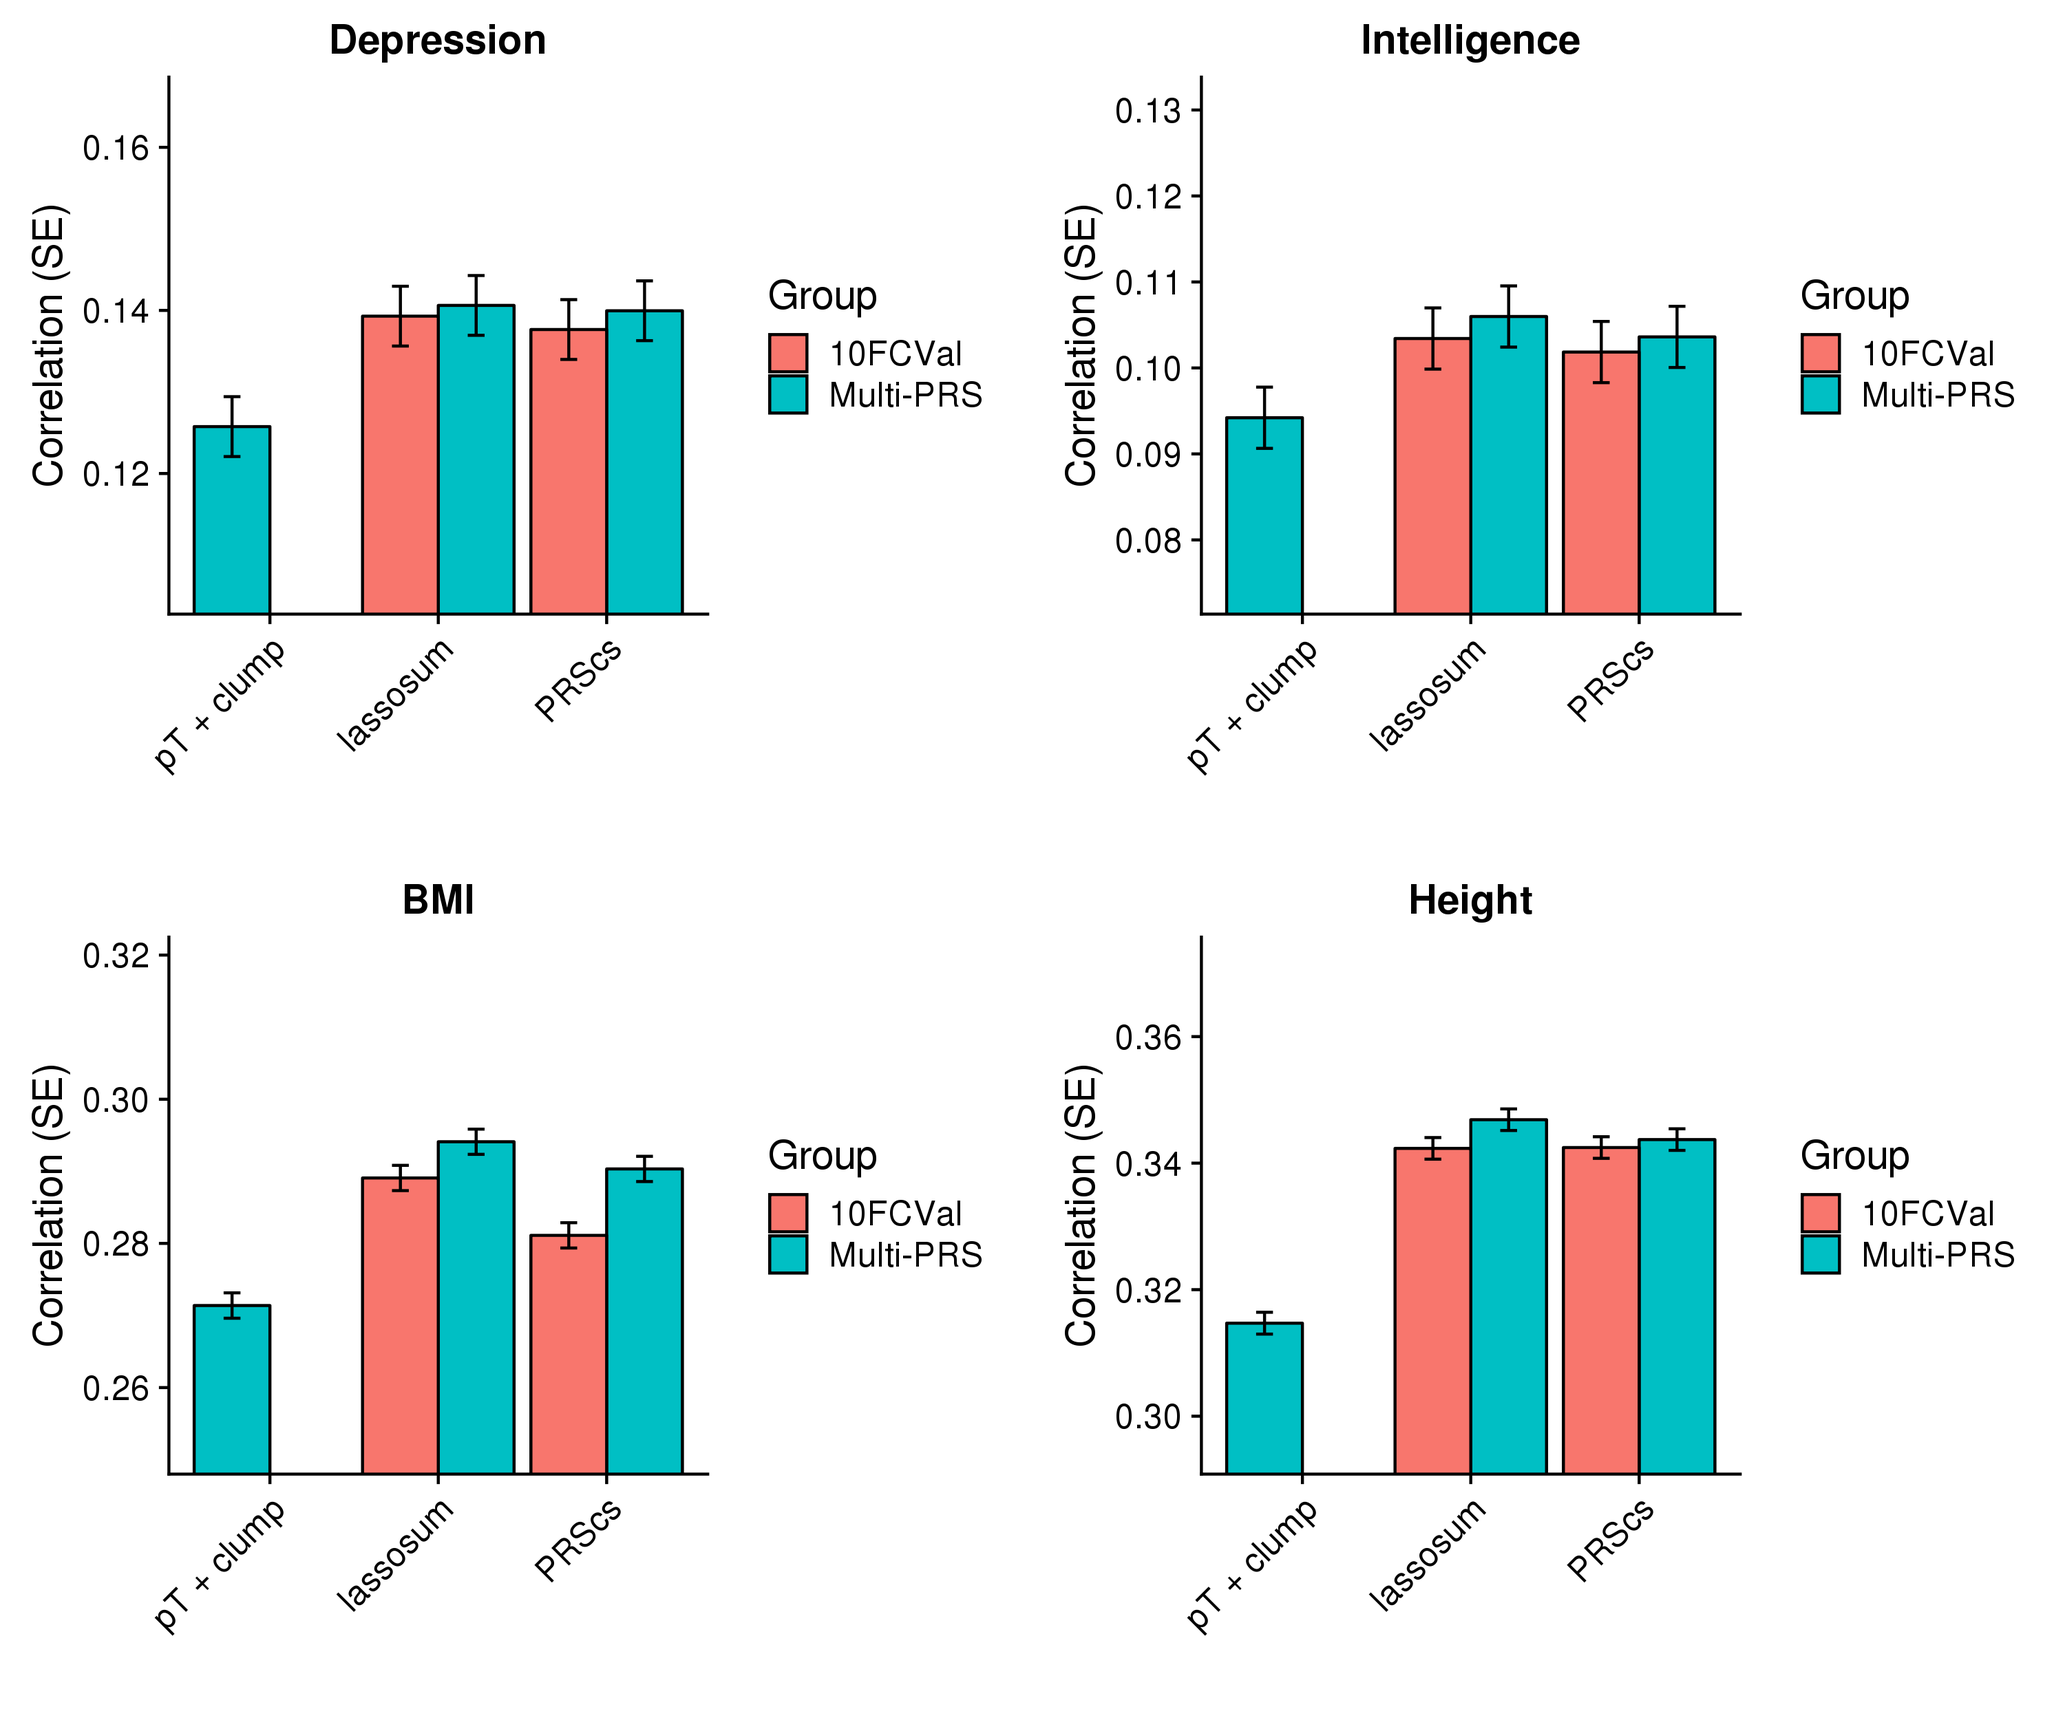
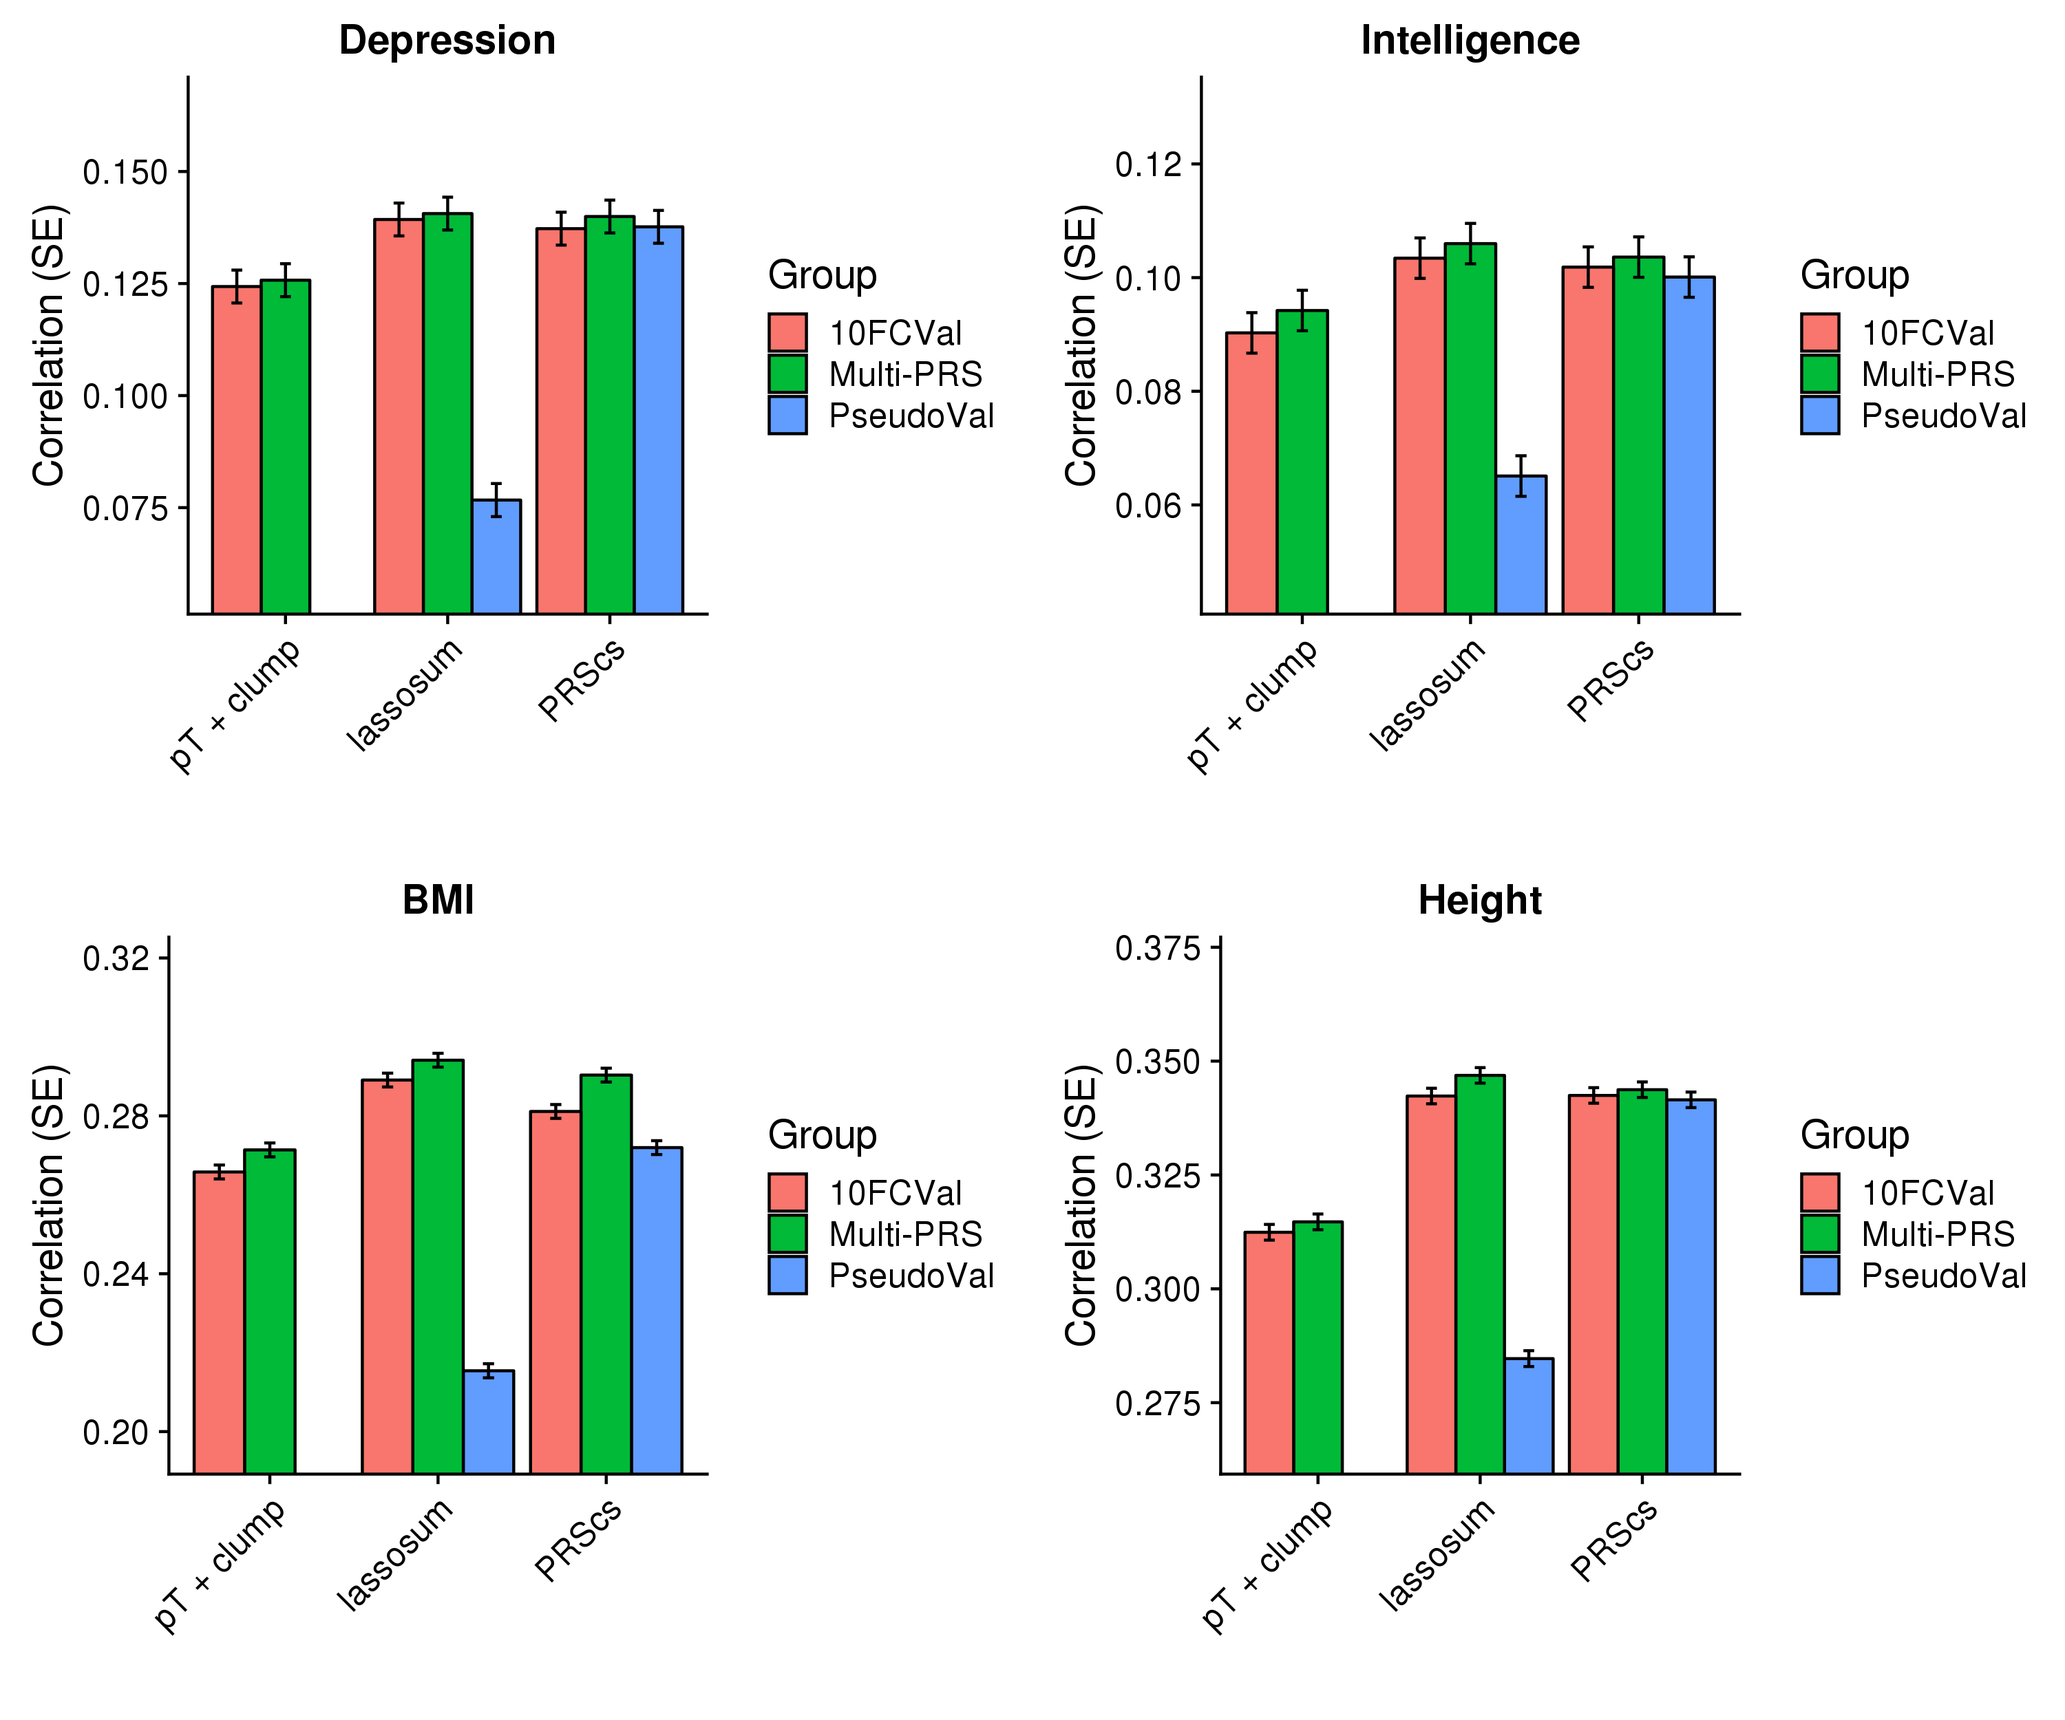
Update

diff --git a/Determine_optimal_polygenic_scoring_approach.html b/Determine_optimal_polygenic_scoring_approach.html
@@ -720,8 +720,8 @@ All_res&lt;-NULL
 for(i in 1:4){
   pT_clump&lt;-read.table(paste0(&#39;/users/k1806347/brc_scratch/Analyses/UKBB_outcomes_for_prediction/&#39;,pheno[i],&#39;/Association_withPRSs/UKBB.w_hm3.&#39;,gwas[i],&#39;.EUR-PRSs.pred_eval.txt&#39;), header=T, stringsAsFactors=F)
   pT_clump$Method&lt;-&#39;pT + clump&#39;
-  Param_tmp&lt;-sort(as.numeric(gsub(&#39;e.&#39;,&#39;e-&#39;,gsub(&#39;.profile_group&#39;,&#39;&#39;,gsub(paste0(gwas[i],&#39;.EUR.pT_&#39;),&#39;&#39;,pT_clump$Model)))))
-  pT_clump$Param&lt;-as.character(as.numeric(gsub(&#39;e.&#39;,&#39;e-&#39;,gsub(&#39;.profile_group&#39;,&#39;&#39;,gsub(paste0(gwas[i],&#39;.EUR.pT_&#39;),&#39;&#39;,pT_clump$Model)))))
+  Param_tmp&lt;-sort(as.numeric(gsub(&#39;e.&#39;,&#39;e-&#39;,gsub(&#39;_group&#39;,&#39;&#39;,gsub(paste0(gwas[i],&#39;_&#39;),&#39;&#39;,pT_clump$Model)))))
+  pT_clump$Param&lt;-as.character(as.numeric(gsub(&#39;e.&#39;,&#39;e-&#39;,gsub(&#39;_group&#39;,&#39;&#39;,gsub(paste0(gwas[i],&#39;_&#39;),&#39;&#39;,pT_clump$Model)))))
   pT_clump$Param[dim(pT_clump)[1]]&lt;-&#39;Multi-PRS&#39;
   pT_clump&lt;-pT_clump[match(c(Param_tmp,&#39;Multi-PRS&#39;), pT_clump$Param),]
   pT_clump$Model&lt;-NULL
@@ -732,13 +732,13 @@ for(i in 1:4){
   
   lassosum_res&lt;-read.table(paste0(&#39;/users/k1806347/brc_scratch/Analyses/UKBB_outcomes_for_prediction/&#39;,pheno[i],&#39;/Association_withPRSs/UKBB.w_hm3.&#39;,gwas[i],&#39;.EUR-PRSs_lassosum.pred_eval.txt&#39;), header=T, stringsAsFactors=F)
   lassosum_res$Method&lt;-&#39;lassosum&#39;
-  lassosum_res$Param&lt;-gsub(&#39;.lassosum.*&#39;,&#39;&#39;,gsub(&#39;.*param_&#39;,&#39;&#39;,lassosum_res$Model))
+  lassosum_res$Param&lt;-gsub(&#39;_group&#39;,&#39;&#39;,gsub(paste0(gwas[i],&#39;.&#39;),&#39;&#39;,lassosum_res$Model))
   lassosum_res$Param[dim(lassosum_res)[1]]&lt;-&#39;Multi-PRS&#39;
   lassosum_res$Model&lt;-NULL
   lassosum_val&lt;-read.table(paste0(&#39;/users/k1806347/brc_scratch/Data/1KG/Phase3/Score_files_for_poylygenic_lassosum/&#39;,gwas[i],&#39;/1KGPhase3.w_hm3.&#39;,gwas[i],&#39;.log&#39;), sep=&#39;&amp;&#39;)
   lassosum_val_s&lt;-as.numeric(gsub(&#39;s = &#39;,&#39;&#39;,lassosum_val$V1[grepl(&#39;s = &#39;,lassosum_val$V1)]))
   lassosum_val_lambda&lt;-as.numeric(gsub(&#39;lambda =&#39;,&#39;&#39;,lassosum_val$V1[grepl(&#39;lambda =&#39;,lassosum_val$V1)]))
-  lassosum_val_param&lt;-paste0(&#39;s&#39;,lassosum_val_s,&#39;_lambda&#39;,lassosum_val_lambda)
+  lassosum_val_param&lt;-paste0(&#39;s&#39;,lassosum_val_s,&#39;.lambda&#39;,lassosum_val_lambda)
   lassosum_val_param&lt;-substr(lassosum_val_param, 1, nchar(lassosum_val_param)-1) 
   lassosum_res$Group&lt;-NA
   lassosum_res$Group[which(lassosum_res$CrossVal_R == max(abs(lassosum_res$CrossVal_R[lassosum_res$Param != &#39;Multi-PRS&#39;])))[1]]&lt;-&#39;10FCVal&#39;
@@ -748,7 +748,7 @@ for(i in 1:4){
   
   PRScs_res&lt;-read.table(paste0(&#39;/users/k1806347/brc_scratch/Analyses/UKBB_outcomes_for_prediction/&#39;,pheno[i],&#39;/Association_withPRSs/UKBB.w_hm3.&#39;,gwas[i],&#39;.EUR-PRSs_PRScs.pred_eval.txt&#39;), header=T, stringsAsFactors=F)
   PRScs_res$Method&lt;-&#39;PRScs&#39;
-  PRScs_res$Param&lt;-gsub(&#39;.PRScs.*&#39;,&#39;&#39;,gsub(&#39;.*param_&#39;,&#39;&#39;,PRScs_res$Model))
+  PRScs_res$Param&lt;-gsub(&#39;_group&#39;,&#39;&#39;,gsub(paste0(gwas[i],&#39;.&#39;),&#39;&#39;,PRScs_res$Model))
   PRScs_res$Param[dim(PRScs_res)[1]]&lt;-&#39;Multi-PRS&#39;
   PRScs_res$Model&lt;-NULL
   PRScs_res$Group&lt;-NA
@@ -826,8 +826,8 @@ n</code></pre>
 
 <p><br/></p>
 <hr />
-<div id="htmlwidget-404243b9c308bcdd55d7" style="width:100%;height:auto;" class="datatables html-widget"></div>
-<script type="application/json" data-for="htmlwidget-404243b9c308bcdd55d7">{"x":{"filter":"top","filterHTML":"<tr>\n  <td data-type=\"factor\" style=\"vertical-align: top;\">\n    <div class=\"form-group has-feedback\" style=\"margin-bottom: auto;\">\n      <input type=\"search\" placeholder=\"All\" class=\"form-control\" style=\"width: 100%;\"/>\n      <span class=\"glyphicon glyphicon-remove-circle form-control-feedback\"><\/span>\n    <\/div>\n    <div style=\"width: 100%; display: none;\">\n      <select multiple=\"multiple\" style=\"width: 100%;\" data-options=\"[&quot;BMI&quot;,&quot;Depression&quot;,&quot;Height&quot;,&quot;Intelligence&quot;]\"><\/select>\n    <\/div>\n  <\/td>\n  <td data-type=\"factor\" style=\"vertical-align: top;\">\n    <div class=\"form-group has-feedback\" style=\"margin-bottom: auto;\">\n      <input type=\"search\" placeholder=\"All\" class=\"form-control\" style=\"width: 100%;\"/>\n      <span class=\"glyphicon glyphicon-remove-circle form-control-feedback\"><\/span>\n    <\/div>\n    <div style=\"width: 100%; display: none;\">\n      <select multiple=\"multiple\" style=\"width: 100%;\" data-options=\"[&quot;lassosum&quot;,&quot;PRScs&quot;,&quot;pT + clump&quot;]\"><\/select>\n    <\/div>\n  <\/td>\n  <td data-type=\"factor\" style=\"vertical-align: top;\">\n    <div class=\"form-group has-feedback\" style=\"margin-bottom: auto;\">\n      <input type=\"search\" placeholder=\"All\" class=\"form-control\" style=\"width: 100%;\"/>\n      <span class=\"glyphicon glyphicon-remove-circle form-control-feedback\"><\/span>\n    <\/div>\n    <div style=\"width: 100%; display: none;\">\n      <select multiple=\"multiple\" style=\"width: 100%;\" data-options=\"[&quot;10FCVal&quot;,&quot;Multi-PRS&quot;]\"><\/select>\n    <\/div>\n  <\/td>\n  <td data-type=\"character\" style=\"vertical-align: top;\">\n    <div class=\"form-group has-feedback\" style=\"margin-bottom: auto;\">\n      <input type=\"search\" placeholder=\"All\" class=\"form-control\" style=\"width: 100%;\"/>\n      <span class=\"glyphicon glyphicon-remove-circle form-control-feedback\"><\/span>\n    <\/div>\n  <\/td>\n  <td data-type=\"character\" style=\"vertical-align: top;\">\n    <div class=\"form-group has-feedback\" style=\"margin-bottom: auto;\">\n      <input type=\"search\" placeholder=\"All\" class=\"form-control\" style=\"width: 100%;\"/>\n      <span class=\"glyphicon glyphicon-remove-circle form-control-feedback\"><\/span>\n    <\/div>\n  <\/td>\n<\/tr>","caption":"<caption>Table 1: Correlation between PRS model predictions and observed values<\/caption>","data":[["Depression","Depression","Depression","Depression","Depression","Intelligence","Intelligence","Intelligence","Intelligence","Intelligence","BMI","BMI","BMI","BMI","BMI","Height","Height","Height","Height","Height"],["pT + clump","lassosum","lassosum","PRScs","PRScs","pT + clump","lassosum","lassosum","PRScs","PRScs","pT + clump","lassosum","lassosum","PRScs","PRScs","pT + clump","lassosum","lassosum","PRScs","PRScs"],["Multi-PRS","10FCVal","Multi-PRS","10FCVal","Multi-PRS","Multi-PRS","10FCVal","Multi-PRS","10FCVal","Multi-PRS","Multi-PRS","10FCVal","Multi-PRS","10FCVal","Multi-PRS","Multi-PRS","10FCVal","Multi-PRS","10FCVal","Multi-PRS"],["0.126 (0.004)","0.139 (0.004)","0.141 (0.004)","0.138 (0.004)","0.14 (0.004)","0.094 (0.004)","0.103 (0.004)","0.106 (0.004)","0.102 (0.004)","0.104 (0.004)","0.271 (0.002)","0.289 (0.002)","0.294 (0.002)","0.281 (0.002)","0.29 (0.002)","0.315 (0.002)","0.342 (0.002)","0.347 (0.002)","0.342 (0.002)","0.344 (0.002)"],["0.12 (0.007)","0.125 (0.007)","0.128 (0.007)","0.124 (0.007)","0.125 (0.007)","0.094 (0.007)","0.097 (0.007)","0.102 (0.007)","0.096 (0.007)","0.1 (0.007)","0.276 (0.004)","0.295 (0.003)","0.299 (0.003)","0.287 (0.004)","0.295 (0.003)","0.318 (0.003)","0.347 (0.003)","0.351 (0.003)","0.346 (0.003)","0.347 (0.003)"]],"container":"<table class=\"display\">\n  <thead>\n    <tr>\n      <th>Phenotype<\/th>\n      <th>Method<\/th>\n      <th>Group<\/th>\n      <th>CrossVal R (SE)<\/th>\n      <th>IndepVal R (SE)<\/th>\n    <\/tr>\n  <\/thead>\n<\/table>","options":{"pageLength":10,"scrollX":true,"order":[],"autoWidth":false,"orderClasses":false,"orderCellsTop":true}},"evals":[],"jsHooks":[]}</script>
+<div id="htmlwidget-fabe378d6e02727534cf" style="width:100%;height:auto;" class="datatables html-widget"></div>
+<script type="application/json" data-for="htmlwidget-fabe378d6e02727534cf">{"x":{"filter":"top","filterHTML":"<tr>\n  <td data-type=\"factor\" style=\"vertical-align: top;\">\n    <div class=\"form-group has-feedback\" style=\"margin-bottom: auto;\">\n      <input type=\"search\" placeholder=\"All\" class=\"form-control\" style=\"width: 100%;\"/>\n      <span class=\"glyphicon glyphicon-remove-circle form-control-feedback\"><\/span>\n    <\/div>\n    <div style=\"width: 100%; display: none;\">\n      <select multiple=\"multiple\" style=\"width: 100%;\" data-options=\"[&quot;BMI&quot;,&quot;Depression&quot;,&quot;Height&quot;,&quot;Intelligence&quot;]\"><\/select>\n    <\/div>\n  <\/td>\n  <td data-type=\"factor\" style=\"vertical-align: top;\">\n    <div class=\"form-group has-feedback\" style=\"margin-bottom: auto;\">\n      <input type=\"search\" placeholder=\"All\" class=\"form-control\" style=\"width: 100%;\"/>\n      <span class=\"glyphicon glyphicon-remove-circle form-control-feedback\"><\/span>\n    <\/div>\n    <div style=\"width: 100%; display: none;\">\n      <select multiple=\"multiple\" style=\"width: 100%;\" data-options=\"[&quot;lassosum&quot;,&quot;PRScs&quot;,&quot;pT + clump&quot;]\"><\/select>\n    <\/div>\n  <\/td>\n  <td data-type=\"factor\" style=\"vertical-align: top;\">\n    <div class=\"form-group has-feedback\" style=\"margin-bottom: auto;\">\n      <input type=\"search\" placeholder=\"All\" class=\"form-control\" style=\"width: 100%;\"/>\n      <span class=\"glyphicon glyphicon-remove-circle form-control-feedback\"><\/span>\n    <\/div>\n    <div style=\"width: 100%; display: none;\">\n      <select multiple=\"multiple\" style=\"width: 100%;\" data-options=\"[&quot;10FCVal&quot;,&quot;Multi-PRS&quot;,&quot;PseudoVal&quot;]\"><\/select>\n    <\/div>\n  <\/td>\n  <td data-type=\"character\" style=\"vertical-align: top;\">\n    <div class=\"form-group has-feedback\" style=\"margin-bottom: auto;\">\n      <input type=\"search\" placeholder=\"All\" class=\"form-control\" style=\"width: 100%;\"/>\n      <span class=\"glyphicon glyphicon-remove-circle form-control-feedback\"><\/span>\n    <\/div>\n  <\/td>\n  <td data-type=\"character\" style=\"vertical-align: top;\">\n    <div class=\"form-group has-feedback\" style=\"margin-bottom: auto;\">\n      <input type=\"search\" placeholder=\"All\" class=\"form-control\" style=\"width: 100%;\"/>\n      <span class=\"glyphicon glyphicon-remove-circle form-control-feedback\"><\/span>\n    <\/div>\n  <\/td>\n<\/tr>","caption":"<caption>Table 1: Correlation between PRS model predictions and observed values<\/caption>","data":[["Depression","Depression","Depression","Depression","Depression","Depression","Depression","Depression","Intelligence","Intelligence","Intelligence","Intelligence","Intelligence","Intelligence","Intelligence","Intelligence","BMI","BMI","BMI","BMI","BMI","BMI","BMI","BMI","Height","Height","Height","Height","Height","Height","Height","Height"],["pT + clump","pT + clump","lassosum","lassosum","lassosum","PRScs","PRScs","PRScs","pT + clump","pT + clump","lassosum","lassosum","lassosum","PRScs","PRScs","PRScs","pT + clump","pT + clump","lassosum","lassosum","lassosum","PRScs","PRScs","PRScs","pT + clump","pT + clump","lassosum","lassosum","lassosum","PRScs","PRScs","PRScs"],["10FCVal","Multi-PRS","PseudoVal","10FCVal","Multi-PRS","10FCVal","PseudoVal","Multi-PRS","10FCVal","Multi-PRS","PseudoVal","10FCVal","Multi-PRS","10FCVal","PseudoVal","Multi-PRS","10FCVal","Multi-PRS","PseudoVal","10FCVal","Multi-PRS","10FCVal","PseudoVal","Multi-PRS","10FCVal","Multi-PRS","10FCVal","PseudoVal","Multi-PRS","10FCVal","PseudoVal","Multi-PRS"],["0.124 (0.004)","0.126 (0.004)","0.077 (0.004)","0.139 (0.004)","0.141 (0.004)","0.137 (0.004)","0.138 (0.004)","0.14 (0.004)","0.09 (0.004)","0.094 (0.004)","0.065 (0.004)","0.103 (0.004)","0.106 (0.004)","0.102 (0.004)","0.1 (0.004)","0.104 (0.004)","0.266 (0.002)","0.271 (0.002)","0.215 (0.002)","0.289 (0.002)","0.294 (0.002)","0.281 (0.002)","0.272 (0.002)","0.29 (0.002)","0.312 (0.002)","0.315 (0.002)","0.342 (0.002)","0.285 (0.002)","0.347 (0.002)","0.342 (0.002)","0.342 (0.002)","0.344 (0.002)"],["0.117 (0.007)","0.12 (0.007)","0.081 (0.007)","0.125 (0.007)","0.128 (0.007)","0.122 (0.007)","0.124 (0.007)","0.125 (0.007)","0.085 (0.007)","0.094 (0.007)","0.067 (0.007)","0.097 (0.007)","0.102 (0.007)","0.096 (0.007)","0.099 (0.007)","0.1 (0.007)","0.269 (0.004)","0.276 (0.004)","0.216 (0.004)","0.295 (0.003)","0.299 (0.003)","0.287 (0.004)","0.275 (0.004)","0.295 (0.003)","0.316 (0.003)","0.318 (0.003)","0.347 (0.003)","0.29 (0.003)","0.351 (0.003)","0.346 (0.003)","0.345 (0.003)","0.347 (0.003)"]],"container":"<table class=\"display\">\n  <thead>\n    <tr>\n      <th>Phenotype<\/th>\n      <th>Method<\/th>\n      <th>Group<\/th>\n      <th>CrossVal R (SE)<\/th>\n      <th>IndepVal R (SE)<\/th>\n    <\/tr>\n  <\/thead>\n<\/table>","options":{"pageLength":10,"scrollX":true,"order":[],"autoWidth":false,"orderClasses":false,"orderCellsTop":true}},"evals":[],"jsHooks":[]}</script>
 <p><br/></p>
 <hr />
 </div>
